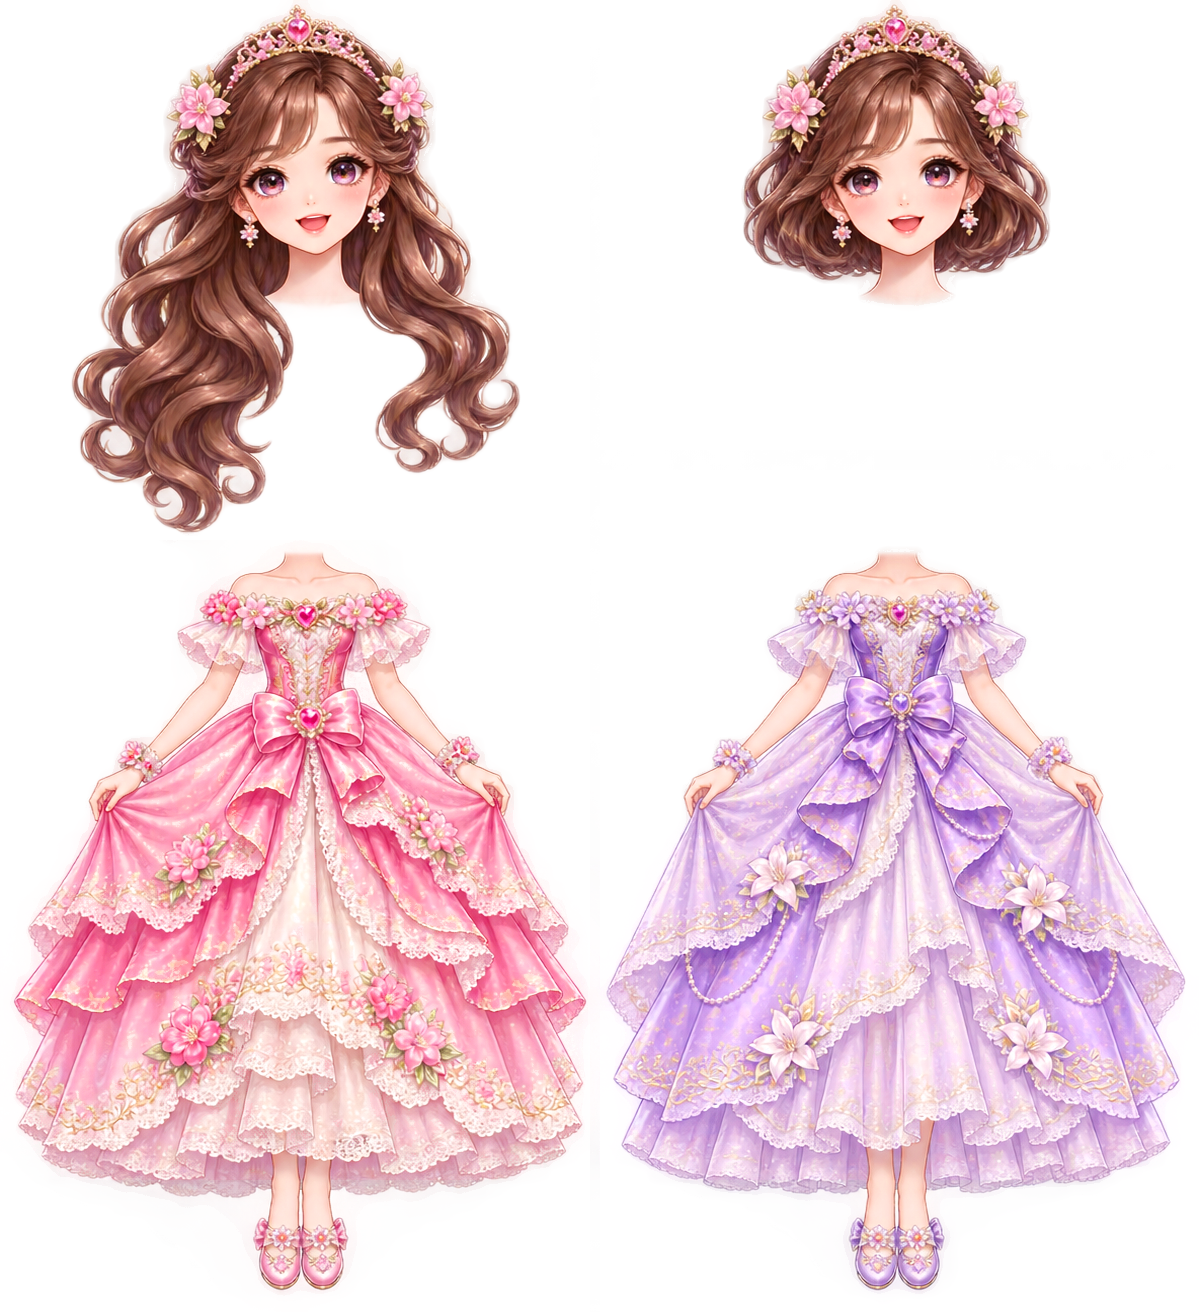
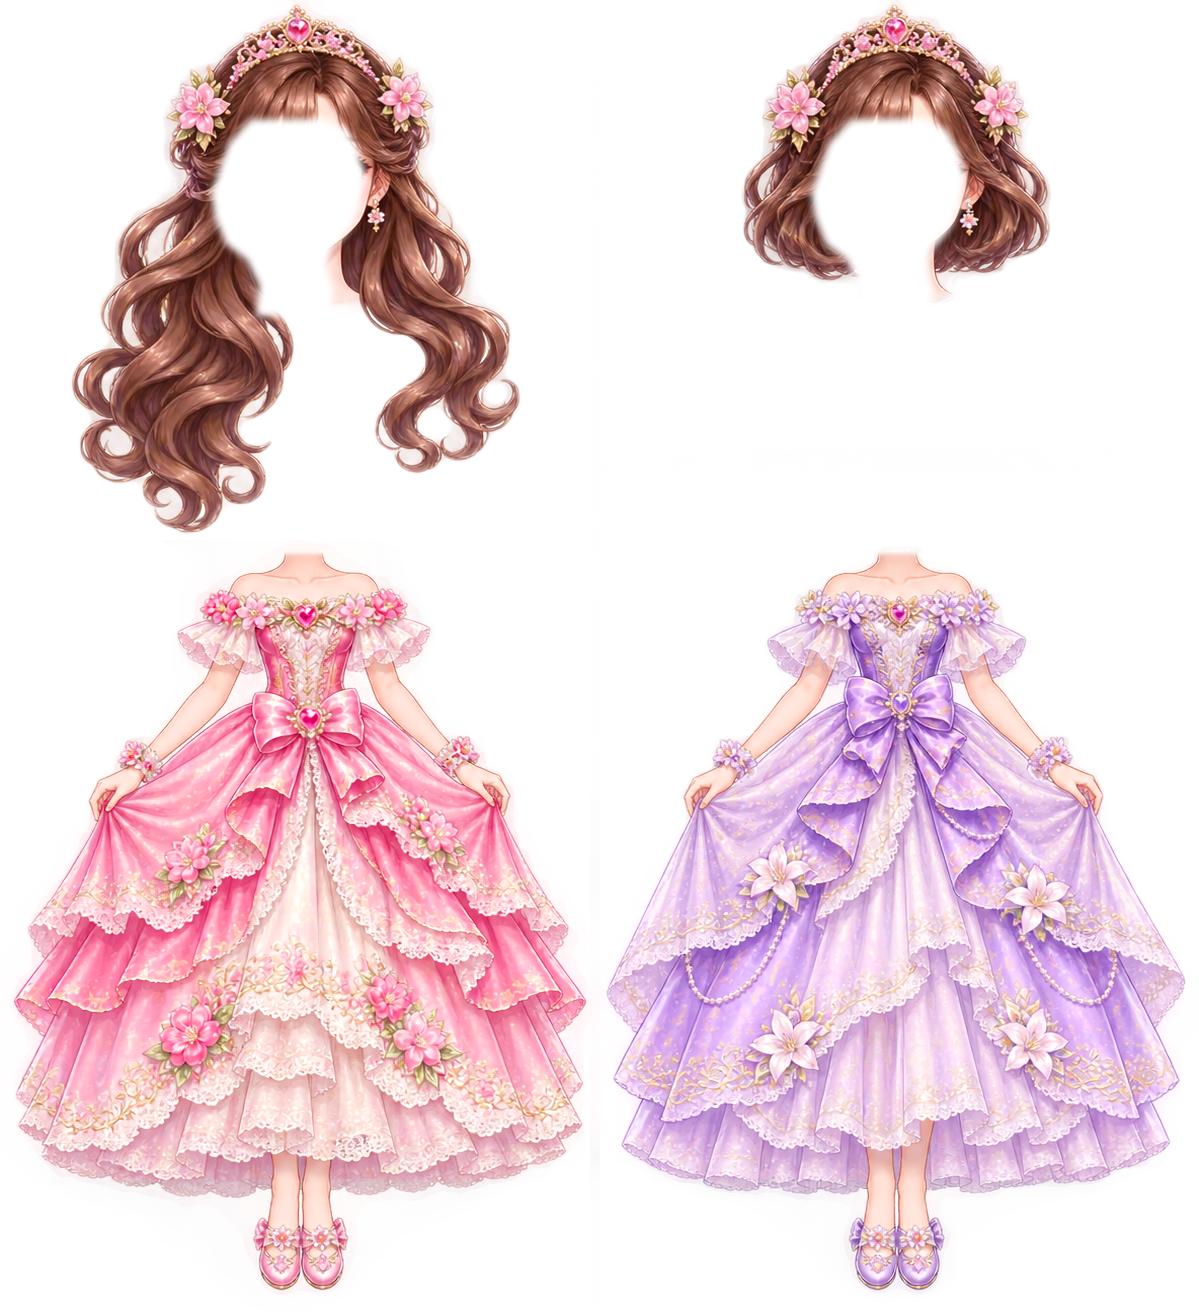
Add files via upload

Changed region(s): [[0.1543, 0.0625, 0.3086, 0.25], [0.6789, 0.0625, 0.8332, 0.25]]

diff --git a/index.html b/index.html
@@ -419,7 +419,7 @@ label.block{display:block;font-weight:850;font-size:14px;margin:8px 0 6px}input[
 #draw #dwFloating.dw-floating button{min-height:32px}
 @media(max-width:750px){#draw .dw-options{gap:6px}#draw .dw-layer-panel{padding:6px}}
 
-/* C4.5.35.3 — drawing surface must never become a browser selection. */
+/* C4.5.35.4 — drawing surface must never become a browser selection. */
 #draw #dwCanvasWrap,
 #draw #dwCanvasWrap canvas,
 #draw #dwCanvasWrap #dwLiveInk,
@@ -648,7 +648,7 @@ label.block{display:block;font-weight:850;font-size:14px;margin:8px 0 6px}input[
     <p>🎬 고화질 캐릭터로 장면마다 달라지는</p>
     <h1>나만의 웹툰 창작극장</h1>
     <p>아이의 상상 → 그림 선택·조합 → 손가락으로 꾸미기</p>
-    <span class="pill">MASTER C4.5.35.3 · 내 그림 웹툰 · 주인공 부분 수정</span>
+    <span class="pill">MASTER C4.5.35.4 · 내 그림 웹툰 · 주인공 부분 수정</span>
   </header>
 
   <nav class="tabs">
@@ -661,8 +661,8 @@ label.block{display:block;font-weight:850;font-size:14px;margin:8px 0 6px}input[
 <p id="webtoonLoadingNotice" role="status" aria-live="polite" hidden style="margin:10px 0;padding:10px 14px;background:#fff2d9;border-radius:12px;color:#60472b;font-weight:700"></p>
 
   <details class="card" id="versionPanel" style="margin:12px 0;padding:12px 16px">
-    <summary style="font-size:15px;font-weight:800;cursor:pointer">⚙ 버전 확인·업데이트 <span style="font-weight:500;color:#795b8c">(현재 C4.5.35.3)</span></summary>
-    <p class="sub" id="versionStatus" aria-live="polite" style="margin:9px 0">설치된 버전 C4.5.35.3 · 최신 버전 확인 전</p>
+    <summary style="font-size:15px;font-weight:800;cursor:pointer">⚙ 버전 확인·업데이트 <span style="font-weight:500;color:#795b8c">(현재 C4.5.35.4)</span></summary>
+    <p class="sub" id="versionStatus" aria-live="polite" style="margin:9px 0">설치된 버전 C4.5.35.4 · 최신 버전 확인 전</p>
     <div class="btns">
       <button id="checkVersionNow" type="button" class="secondary">🔄 최신 버전 확인</button>
       <button id="installLatestVersion" type="button" class="primary" hidden>⬆ 새 버전 열기</button>
@@ -1411,7 +1411,7 @@ label.block{display:block;font-weight:850;font-size:14px;margin:8px 0 6px}input[
     </div>
   </section>
 
-  <div class="footer">나만의 웹툰 창작극장 C4.5.35.3 · 그림 자료 분리 · 폴더 없이 업데이트</div>
+  <div class="footer">나만의 웹툰 창작극장 C4.5.35.4 · 그림 자료 분리 · 폴더 없이 업데이트</div>
 </div>
 <div id="toast"></div>
 
@@ -1421,6 +1421,6 @@ label.block{display:block;font-weight:850;font-size:14px;margin:8px 0 6px}input[
 <script defer src="app-core.js?v=45331"></script>
 <script defer src="drawing-workshop.js?v=45331"></script>
 <script defer src="fixed-princess.js?v=4522"></script>
-<script defer src="princess-assembly.js?v=45353"></script>
+<script defer src="princess-assembly.js?v=45354"></script>
 </body>
 </html>

diff --git a/princess-assembly.js b/princess-assembly.js
@@ -1,4 +1,4 @@
-/* C4.5.35.3 · high-quality modular princess prototype.
+/* C4.5.35.4 · high-quality modular princess prototype.
  * Independent of app-core.js, drawing-workshop.js, and existing storage.
  * Layered sprite parts: hairstyle and dress rendered separately, without repainting other features.
  */
@@ -10,7 +10,7 @@
  const choices={hair:[['long','🌸 긴 웨이브 머리'],['bob','🌷 단발머리']],dress:[['pink','💗 꽃빛 드레스'],['lavender','💜 라벤더 드레스']]};
  const source={long:{sx:0,sy:0,sw:590,sh:540},bob:{sx:600,sy:0,sw:599,sh:450},pink:{sx:0,sy:530,sw:590,sh:782},lavender:{sx:600,sy:470,sw:599,sh:842}};
  const W=600,H=1052,OFFSET=260,HEAD_Y=315;
- let state={...defaults},recordId=null,ready=false,asset=null,loading=false;
+ let state={...defaults},recordId=null,ready=false,asset=null,sharedFace=null,loading=false;
  const canvas=document.createElement('canvas');canvas.width=W*2;canvas.height=H*2;
  canvas.setAttribute('role','img');canvas.setAttribute('aria-label','현재 조립된 꽃빛공주');
  canvas.style.cssText='display:block;width:100%;height:auto;max-height:640px;object-fit:contain;';
@@ -34,6 +34,9 @@
    // Dress is drawn first; hair naturally overlaps the shoulders and neckline.
    drawPart(context,'dress',state.dress);
    drawPart(context,'hair',state.hair);
+   // Canonical face and neck are one shared immutable part for every hair selection.
+   // Its position, rotation, size and facial features never change with hairstyles.
+   if(sharedFace)context.drawImage(sharedFace,200,HEAD_Y+100,190,232);
    context.setTransform(1,0,0,1,0,0);
  }
  function refresh(){
@@ -60,10 +63,10 @@
    });
  }
  function loadArt(){if(loading||ready)return;loading=true;message('공주 원화를 불러오는 중이에요…');
-   const image=new Image();image.decoding='async';
-   image.onload=()=>{asset=image;ready=true;loading=false;refresh();message('머리와 드레스를 선택해 보세요. 고품질 원화 부품이 조립됩니다.')};
-   image.onerror=()=>{loading=false;message('공주 원화를 불러올 수 없어요. princess-hq-sheet.png가 GitHub에 함께 올라갔는지 확인해 주세요.')};
-   image.src='princess-hq-sheet.png?v=45353';
+   const load=(src)=>new Promise((ok,fail)=>{const im=new Image();im.decoding='async';im.onload=()=>ok(im);im.onerror=()=>fail(new Error(src));im.src=src});
+   Promise.all([load('princess-hq-sheet.png?v=45354'),load('princess-shared-face.png?v=45354')])
+     .then(([sheet,face])=>{asset=sheet;sharedFace=face;ready=true;loading=false;refresh();message('머리 모양을 바꿔도 얼굴과 고개 위치는 그대로 유지돼요.')})
+     .catch(e=>{loading=false;message('공주 원화를 불러올 수 없어요. 공주 그림 파일 2개가 함께 업로드되었는지 확인해 주세요.')});
  }
  by('pmPreview').replaceChildren(canvas);
  by('pmName').addEventListener('input',e=>state.name=e.target.value.slice(0,35));
